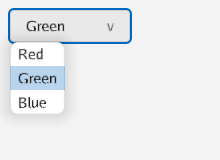
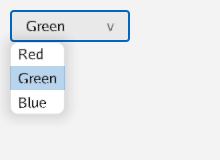
fix(controls): draw focus ring inset so ancestor clips can't crop it
The ring was stroked on bounds.Inflate(2) — entirely outside the widget.
Any focusable flush against a clipping ancestor's edge (leftmost tab, a
ListView flush against a ScrollViewer's clip) lost the ring's edge on
that side. Draw the ring on bounds instead (stroked inward) so it stays
within the widget and is immune to ancestor clipping. Regenerated
textbox.png + combo_open.png.

Changed region(s): [[0.0273, 0.0312, 0.6, 0.2812]]

diff --git a/controls/clickable.go b/controls/clickable.go
@@ -84,12 +84,19 @@ func (c *ClickBehavior) Activate() {
 }
 
 // drawFocusRing draws the focus-ring overlay shared by every focusable
-// composite control (Button, CheckBox, RadioButton, ToggleSwitch): a
-// StrokeRoundedRect on bounds inflated by 2, at radius+2, using
-// FocusStrokeWidth and FocusStroke from the caller's own captured tokens.
-// Callers are expected to have already checked their own focused flag; this
-// helper only centralizes the "inflate by 2, ring color/width from theme
-// tokens" geometry so all four controls draw an identical ring.
+// control (Button, CheckBox, RadioButton, ToggleSwitch, TextBox, Slider,
+// ListView, tabStrip): a StrokeRoundedRect drawn just INSIDE the widget's
+// own bounds, using FocusStrokeWidth and FocusStroke from the caller's own
+// captured tokens. Callers pass their own bounds and corner radius and are
+// expected to have already checked their focused flag.
+//
+// The ring is inset (drawn on bounds, stroked inward) rather than outset
+// (bounds inflated outward) so it always falls WITHIN the widget's own
+// rectangle. An outset ring's outer band lies outside the widget and is
+// cropped by any clipping ancestor a focusable sits flush against — e.g. the
+// leftmost tab or a list flush against a ScrollViewer's clip edge would lose
+// the ring's left side. Keeping the ring inside the bounds makes it immune to
+// ancestor clipping without needing a separate adorner layer.
 func drawFocusRing(r render.Renderer, bounds render.Rect, radius float32, colors theme.ColorTokens, metrics theme.MetricTokens) {
-	r.StrokeRoundedRect(bounds.Inflate(2), radius+2, metrics.FocusStrokeWidth, colors.FocusStroke)
+	r.StrokeRoundedRect(bounds, radius, metrics.FocusStrokeWidth, colors.FocusStroke)
 }
